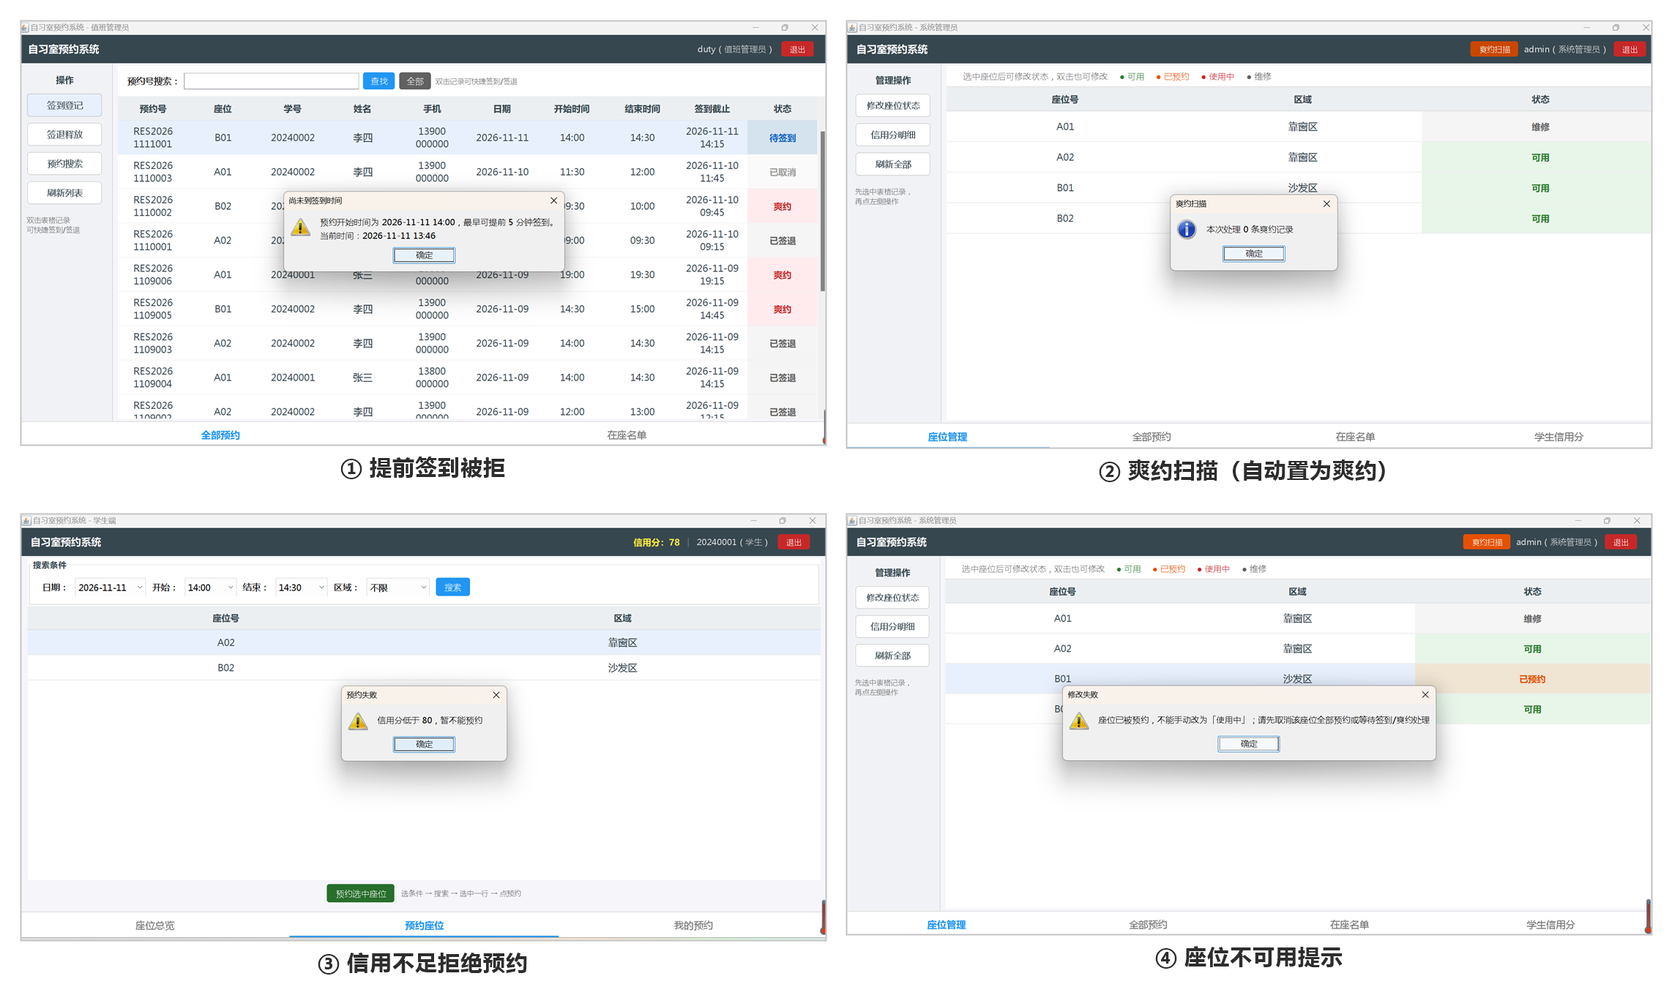
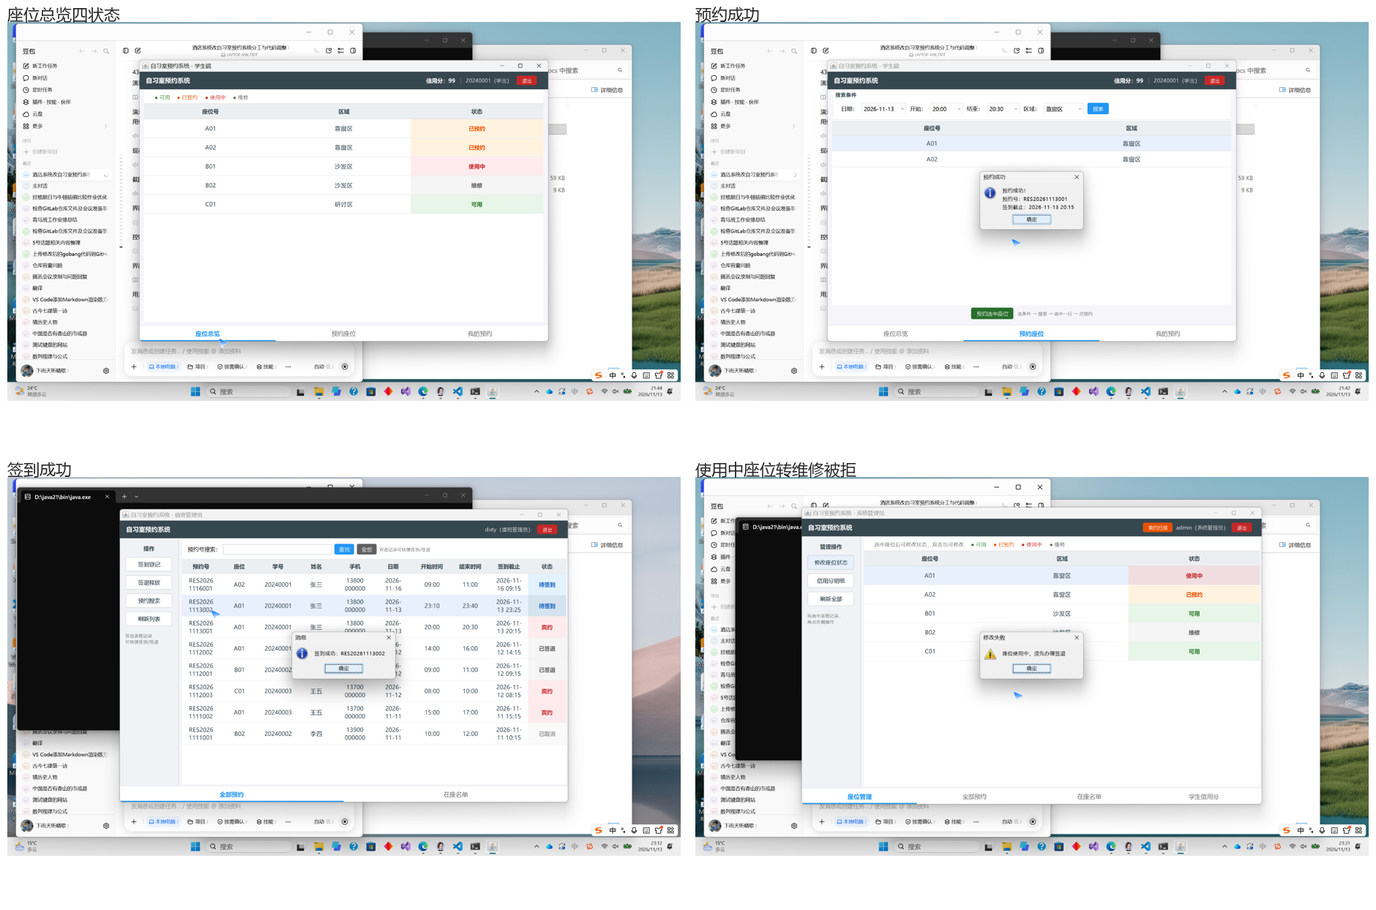
A-16: A-8 联调取证与回写：真机跑通联调清单 9/10 项，清单升 v1.4、看板与工作记录同步

diff --git a/docs/工作记录.md b/docs/工作记录.md
@@ -5,8 +5,8 @@
 > **维护者**：易雨杰（成员A）
 > **组员**：叶梅冰（成员B）
 > **创建时间**：2026-10-28（选题切换后重新建档）
-> **最后修改**：2026-11-13（v3.24）
-> **版本**：v3.24
+> **最后修改**：2026-11-13（v3.25）
+> **版本**：v3.25
 
 ## 一、团队与分工
 
@@ -89,7 +89,7 @@
 | 2026-11-12 | 易雨杰（A） | 实验时间按 Word 反向同步 | 用户改了实验2、实验3、实验5 三份 Word 的「实验时间」，按 Word 现状只读核对后同步 Markdown：实验2 由 2026 年 10 月 30 日改为 11 月 11 日（升 v2.2），实验3 由 11 月 7 日改为 11 月 11 日（升 v1.5），实验5 由 11 月 7 日改为 11 月 25 日（升 v1.5，并把「图内备注框未重画」改为备注框已按契约 v1.3 表述换入 Word 内嵌图）；`对接-A4到后续B.md` 升 v1.3，实验5 Word 的实验时间与座位图备注框描述一并更新；三份 Word 本次只改了实验时间这一行，逐段 diff 确认其余内容未动 | `docs/reports/实验2-系统用例图与用例叙述.md`、`docs/reports/实验3-UML类图.md`、`docs/reports/实验5-状态图.md`、`docs/contract/对接-A4到后续B.md` | `7a6dd4a`、`3664925` |
 | 2026-11-12 | 叶梅冰（B） | B-8 | 完成个人任务与感想文档及交叉审查闭环：修正实验7大报告：L1019 笔误（图 1-13 改图 1-10）及 2 张图名；拆分表1 CIM-2 行，明确在线预约（A）与签退（B）归属；统一信用分文案为“信用分低于 80，暂不能预约”；大报告版本号升为 v1.1。 | `docs/reports/05_个人任务及感想-B.md`、`docs/reports/05_个人任务及感想-B.docx` | `c9317b2` |
 | 2026-11-13 | 叶梅冰（B） | B-8 / B-6 收尾 | 完善交叉审查闭环与截图汇总： 按 A 复核意见更新个人文档附录 A 闭环说明（修正 A-01 引文位置、收敛 A-02 绝对化措辞）；修复 B-6 汇总目录 `docs/assets/汇总/README.md` 的截图索引与 UML_04 出处；重命名汇总目录中带全角括号的截图文件以兼容跨平台路径； 回填工作记录与进度看板状态； 补交 B-8 个人文档（MD + Word），修改个人文档的附录A内容。 | `docs/reports/05_个人任务及感想-B.md`、`.docx`、`docs/assets/汇总/`、`README.md`、`docs/进度看板.md`、`docs/工作记录.md` | `77cb180`、`b148aae`、`3dd3d72` |
-| 2026-11-13 | 易雨杰（A） | A-12～A-14 合并后收尾 | B 的 PR #16（`302bee7`）合并进 `main` 后做 A 侧收尾。① 进度看板按已合并状态重写：当前节点改为 A-8 联调，A-3～A-7 去掉「待 B 评审合并」并标注归属 PR（#10 / #12 / #14 / #17），A-8 改为「待联调（B 界面已合入 main）」，B-6 改为「汇总已完成、演示视频待联调后录制」，同时修掉截图清单 B-8 行反引号位置错误，并把过期的「当前阻塞」三条（契约 v0.7/v0.8、A-4～A-6 待合并）换成联调期真实阻塞。② 实验5 状态清单补转维修前提：AVAILABLE 的退出条件标「手动维护，`AVAILABLE ↔ CLOSED` 允许」，RESERVED 改为「须经 `closeSeatForRepair` 级联撤销该座位的预约后置 CLOSED」，Word 表格对应两格用 `python-docx` 原地改写，改前断言目标文本唯一命中、改后核对内嵌图 blob 未变（`7fc5b8aa57ef` / `4dda54ea97bb`）。③ `对接-A7到A8联调清单` 升 v1.3：测试数 38 → 43，写明两侧代码均已合入 `main`（`302bee7`）可直接联调，并补 B 侧已实现功能清单 | `docs/进度看板.md`、`docs/reports/实验5-状态图.md`、`docs/reports/实验5-状态图.docx`、`docs/contract/对接-A7到A8联调清单.md` | `984bfd7`、`ecb5f0c`、`7611a71` |
+| 2026-11-13 | 易雨杰（A） | A-15 联调与取证 | 在 `main`（`302bee7`）+ JDK 21 上按《对接-A7到A8联调清单》第五节真机走完 A-8 联调：先 `.\mvnw.cmd clean test` 复跑 43 个用例全过（BUILD SUCCESS），再用 `GenerateDemoData` 生成当天数据启动 Swing，按 学生 → 低信用学生 → 值班 → 系统管理员 四种身份逐项验证。结果 10 项过 9 项：三角色登录与错误密码提示、座位四状态与维修不可选、时段查询随区域/时段变化且已约时段查不到、预约成功（RES20261113001，截止 20:15）、信用分不足被拒（20240003 信用分 65）、签到成功（RES20261113002 转「使用中」并进在座名单）、签退成功（RES20261112001 超时扣 1 分，`LATE_CHECKOUT` 流水 log5）、爽约自动扫描（RES20261112003 与 RES20261113001 转「爽约」各扣 5 分，座位释放）、关程序重开数据仍在（信用分 94、A02 仍已预约、B02 仍维修）；唯一缺口是对使用中座位转维修被拒已取图（弹「修改失败：座位使用中，须先办理签退」），签退后再转维修成功这一步因界面自动化被中断未取到。取证图按步骤编号存 `docs/assets/联调取证/`（含少量重复截图待清理），汇总图 `docs/assets/联调_运行界面.png` 用「座位总览 / 预约成功 / 签到成功 / 转维修被拒」四张拼成 2×2；`对接-A7到A8联调清单` 升 v1.4 逐条勾选并补 5.1 结论与 5.2 实测偏差（users.csv 缺 20240003 账号、王五实为 65、当晚 23 点后无可约时段需补种一条当前时段记录、在座名单无结束时间列、汇总状态与时段查询观感差异、预约不校验当天时刻） | `docs/assets/联调取证/*.png`、`docs/assets/联调_运行界面.png`、`docs/contract/对接-A7到A8联调清单.md`、`docs/进度看板.md`、`docs/工作记录.md` | 随本次提交 | B 的 PR #16（`302bee7`）合并进 `main` 后做 A 侧收尾。① 进度看板按已合并状态重写：当前节点改为 A-8 联调，A-3～A-7 去掉「待 B 评审合并」并标注归属 PR（#10 / #12 / #14 / #17），A-8 改为「待联调（B 界面已合入 main）」，B-6 改为「汇总已完成、演示视频待联调后录制」，同时修掉截图清单 B-8 行反引号位置错误，并把过期的「当前阻塞」三条（契约 v0.7/v0.8、A-4～A-6 待合并）换成联调期真实阻塞。② 实验5 状态清单补转维修前提：AVAILABLE 的退出条件标「手动维护，`AVAILABLE ↔ CLOSED` 允许」，RESERVED 改为「须经 `closeSeatForRepair` 级联撤销该座位的预约后置 CLOSED」，Word 表格对应两格用 `python-docx` 原地改写，改前断言目标文本唯一命中、改后核对内嵌图 blob 未变（`7fc5b8aa57ef` / `4dda54ea97bb`）。③ `对接-A7到A8联调清单` 升 v1.3：测试数 38 → 43，写明两侧代码均已合入 `main`（`302bee7`）可直接联调，并补 B 侧已实现功能清单 | `docs/进度看板.md`、`docs/reports/实验5-状态图.md`、`docs/reports/实验5-状态图.docx`、`docs/contract/对接-A7到A8联调清单.md` | `984bfd7`、`ecb5f0c`、`7611a71` |
 
 
 ## 四、待办与阻塞
@@ -166,4 +166,5 @@
 | v3.22 | 2026-11-12 | 易雨杰 | 三份 Word 的实验时间改动反向同步到 Markdown：实验2 → 2026 年 11 月 11 日（v2.2）、实验3 → 2026 年 11 月 11 日（v1.5）、实验5 → 2026 年 11 月 25 日（v1.5）；实验5 md 头部「图内备注框未重画」一并更正为已按契约 v1.3 换入 Word 内嵌图；`对接-A4到后续B.md` 升 v1.3 同步实验时间与备注框描述；三份 Word 的实验时间改动随 `7a6dd4a` 之后的 `3664925` 入库 |
 | v3.23 | 2026-11-13 | 叶梅冰 | 完善 B-8 与 B-6 交付：按 A 复核意见更新个人文档附录 A 闭环说明（修正 A-01 引文行号、收敛 A-02 绝对化措辞）；修复汇总目录 README 的截图索引与 UML_04 出处；重命名带全角括号的截图以兼容跨平台；补交 B-8 个人文档与 Word；修改个人文档的附录A内容，相关修改见提交 `77cb180` ， `b148aae`与`3dd3d72` |
 | v3.24 | 2026-11-13 | 易雨杰 | B 的 PR #16 合并后 A 侧收尾：进度看板按已合并状态重写（A-3～A-7 标所属 PR、A-8 转联调、阻塞与下一步刷新、修截图清单反引号）；实验5 状态清单补转维修前提（AVAILABLE 标手动维护、RESERVED 改为经 `closeSeatForRepair` 级联撤销后置 CLOSED），Word 表格同步且内嵌图不动；`对接-A7到A8联调清单` 升 v1.3（43 个单测、两侧代码同处 `main` `302bee7`）；对应提交 `984bfd7`、`ecb5f0c`、`7611a71` |
+| v3.25 | 2026-11-13 | 易雨杰 | A-8 联调执行并回写：43 个单测复跑通过（BUILD SUCCESS），四种身份真机走完联调清单 10 项中的 9 项（缺「签退后转维修」一图）；取证图按步骤编号进 `docs/assets/联调取证/`，`联调_运行界面.png` 换为真机 2×2 汇总；`对接-A7到A8联调清单` 升 v1.4（勾选结果 + 5.1 结论 + 5.2 六条实测偏差）；进度看板 A-8 转「进行中 9/10」 |
 

diff --git a/docs/contract/对接-A7到A8联调清单.md b/docs/contract/对接-A7到A8联调清单.md
@@ -1,7 +1,7 @@
 # 对接：A-7 到 A-8 联调清单（成员B 专用）
 
 > **用途**：B 写 Swing 界面时照着走，不用猜文案、不用猜该调哪个方法。
-> **版本**：v1.3（2026-11-13）——A 侧与 B 侧代码均已合入 `main`（A 走 PR #12/#14/#17，B 走 PR #13/#16，`main` 现为 `302bee7`），测试数更新为 43，可直接开始 A-8 联调　**作者**：易雨杰（成员A）
+> **版本**：v1.4（2026-11-13）——A 侧与 B 侧代码均已合入 `main`（A 走 PR #12/#14/#17，B 走 PR #13/#16，`main` 现为 `302bee7`），测试数更新为 43；第五节已按 A-8 真机联调结果逐条勾选并补记实测偏差　**作者**：易雨杰（成员A）
 > **依据**：接口契约 v1.2、`ServiceFactory`、四个 Service 实现的实际代码行为。
 
 ## 一、入口与初始化
@@ -77,21 +77,38 @@ java tools\GenerateDemoData.java data
 
 - 启动后界面直接能看到：`A01` 可用、`A02` 已预约、`B01` 使用中、`B02` 维修、`C01` 被预约锁定；预约列表 `BOOKED/CHECKED_IN/CHECKED_OUT/CANCELLED/NO_SHOW` 俱全，外加一条已过期仍 `BOOKED` 的记录。
 - `20240001 / 123456` 登录学生端，`duty / 123456` 值班管理员，`admin / 123456` 系统管理员。
-- `王五（20240003）` 信用分 70，用他预约可演示 `CREDIT_LOW` 拒绝。
+- 王五（20240003）信用分 **65**，用他预约可演示 `CREDIT_LOW` 拒绝（`users.csv` 默认只注册 `20240001`，先补一行 `20240003,123456,STUDENT` 才能登录，见 5.2 第 1 条）。
 - 签到用「今天 +3 天」的记录；签退用昨天的 `CHECKED_IN`（日期被替换成预约日期，传 09:00 之后任意时刻都能过）；爽约扫描用昨天 08:00 仍 `BOOKED` 的那条（截止 08:15 已过）。
 
 ## 五、A-8 联调验收清单
 
-- [ ] 三种角色都能登录，登录后能取到用户名与角色，错误密码提示「用户名或密码错误」。
-- [ ] 座位总览显示四种状态且颜色/图标可区分；维修中座位不可选。
-- [ ] 查询可用座位：换区域、换时段结果随之变化；已被预约的时段查不到该座位。
-- [ ] 预约成功：座位转「已预约」，预约列表新增一条 `BOOKED`，显示签到截止时间。
-- [ ] 信用分 70 的学生预约被拒，提示信用分不足，座位状态不变。
-- [ ] 签到成功：预约转 `CHECKED_IN`、座位转「使用中」，在座记录出现且结束时间为空。
-- [ ] 签退成功：预约转 `CHECKED_OUT`、座位回到「可用」；超时返回 `penalty=1` 并新增一条 `LATE_CHECKOUT` 流水。
-- [ ] 爽约扫描：把某条 `BOOKED` 的预约等到超过截止时间，手动点一次扫描，预约转 `NO_SHOW`、扣 5 分、座位释放。
-- [ ] 对使用中座位点「转维修」被拒，提示须先签退；签退后再转维修成功。
-- [ ] 关闭程序重开，上述所有改动仍在（CSV 已落盘）。
+> 本轮实测：2026-11-13 21:40~23:35，`main`（`302bee7`）+ JDK 21 + 当天生成的演示数据，全部操作走 Swing 界面，取证图按步骤编号存 `docs/assets/联调取证/`（含少量重复截图，未清理），汇总图 `docs/assets/联调_运行界面.png`。
+
+- [x] 三种角色都能登录，登录后能取到用户名与角色，错误密码提示「用户名或密码错误」。（学生 20240001、值班 duty、系统管理员 admin 均可登录；未注册学号登录同样提示该文案）
+- [x] 座位总览显示四种状态且颜色/图标可区分；维修中座位不可选。（A01 可用、A02 已预约、B01 使用中、B02 维修；B02 不出现在可用座位查询结果里）
+- [x] 查询可用座位：换区域、换时段结果随之变化；已被预约的时段查不到该座位。（预约 A01 后同区域同时段复检，只剩 A02；区域下拉换「靠窗区」结果随之收窄）
+- [x] 预约成功：座位转「已预约」，预约列表新增一条 `BOOKED`，显示签到截止时间。（RES20261113001，弹窗给出「签到截止 20:15」，我的预约新增「待签到」行）
+- [x] 信用分不足的学生预约被拒，提示信用分不足，座位状态不变。（20240003 信用分 65，提示「预约失败：信用分低于 80，暂不能预约」，C01 状态未变）
+- [x] 签到成功：预约转 `CHECKED_IN`、座位转「使用中」，在座记录出现且结束时间为空。（RES20261113002 签到后状态转「使用中」，在座名单出现 REC20261113231205506 / 签到时间 23:12 / 超时扣分 0；**在座名单表格只列签到时间，不列结束时间列**，见 5.2 第 4 条）
+- [x] 签退成功：预约转 `CHECKED_OUT`、座位回到「可用」；超时返回 `penalty=1` 并新增一条 `LATE_CHECKOUT` 流水。（RES20261112001 于 23:05 签退，弹「超时扣分：1 分」，B01 回到可用；`credit_score_logs.csv` log5 落盘 `20240002 … -1 LATE_CHECKOUT`）
+- [x] 爽约扫描：把某条 `BOOKED` 的预约等到超过截止时间，手动点一次扫描，预约转 `NO_SHOW`、扣 5 分、座位释放。（界面**没有**手动扫描按钮，扫描由启动补扫 + 每 60 分钟守护线程完成：RES20261112003、RES20261113001 均转「爽约」，log3/log4 各扣 5 分，C01/A01 释放为可用；系统管理员端另有「爽约扫描」按钮可手动触发）
+- [x] 对使用中座位点「转维修」被拒，提示须先签退。（admin 端对 A01（使用中）改状态，弹「修改失败：座位使用中，须先办理签退」）
+- [ ] 签退后再转维修成功。**未取到证据**：本次界面被中断前未走完该步，留作 A-8 收尾补做。
+- [x] 关闭程序重开，上述所有改动仍在（CSV 已落盘）。（重开后学生 20240001 信用分 94、A01 可用、A02 已预约、B01 可用、B02 维修、C01 可用）
+
+### 5.1 联调结论
+
+- 10 项中 9 项通过、1 项（签退后转维修成功）待补做；B 侧界面与 A 侧 Service 衔接无阻塞问题，异常提示文案与第三节约定一致。
+- 联调期间未改任何业务代码，`.\mvnw.cmd clean test` 43 个测试全过（`BUILD SUCCESS`）。
+
+### 5.2 实测偏差与演示脚手架（已记录，不影响功能）
+
+1. `data/users.csv` 默认只有 `admin`/`duty`/`20240001` 三个账号，演示「信用分不足」需先手工补 `20240003,123456,STUDENT`；生成器可考虑一并写入。
+2. 王五实际信用分 65（原清单写 70），已按 65 更正第四节。
+3. 当天 23:00 之后已无「开始时段」可预约，界面提示「今天已没有可预约的时段，请选择之后的日期」；为验证签到链路，手工在 `data/reservations.csv` 补一条当前时段 `BOOKED`（RES20261113002），**属演示脚手架，不是界面自建**。
+4. 在座名单表格列为「记录号/预约号/座位/姓名/手机/签到时间/超时扣分」，没有「结束时间」列，与第 6 条原文表述不符；要补列属界面改动，本轮不做。
+5. 座位总览显示的是汇总状态（A02「已预约」、B01「使用中」），而按时段查询仍可能列出它们——这是 v1.3「`status` 为汇总状态 + 可用性按时段重叠判定」的设计结果，演示时容易被误读为「已预约还能约」。
+6. 预约只校验日期不校验当天时刻，21:42 仍能约到 20:00-20:30，一旦成立即超过签到截止并转爽约；若要在界面上拦住，需在 `reserve` 增加「结束时间须晚于当前时刻」的校验（属契约变更，须走 `CONTRACT-CHANGE`）。
 
 ## 六、接口补充与已知边界
 
@@ -111,3 +128,4 @@ java tools\GenerateDemoData.java data
 - 文档：本清单 + `对接-A6到后续B.md`（业务规则细节、B 的开工步骤、三张表列定义）+ `A5/A6-实现记录.md`（实现取舍）。
 - 合并状态：A 侧全部内容经 PR #12、#14、#17 合入 `main`；B 侧四端界面经 PR #13（B-4/B-5）与 PR #16（B-6/B-7/B-8）合入，`main` 当前为 `302bee7`。两侧代码已同处一个分支，联调直接在 `main` 上跑，不需要再互相拉分支。
 - 联调前置：B 侧已实现登录、座位查询与预约/取消、我的预约（含座位状态列）、签到/签退、预约号搜索、在座名单、座位状态修改、信用分明细、爽约扫描（`AppMain` 启动补扫一次 + 每 60 分钟一次的守护线程）与统一异常提示；A 侧负责的 Service 与持久层无需改动。
+- 联调结果：2026-11-13 在 `main` 上真机跑通 10 项验收中的 9 项，唯一缺口是「签退后转维修成功」未取图；取证见 `docs/assets/联调取证/`，汇总图 `docs/assets/联调_运行界面.png`。

diff --git a/docs/进度看板.md b/docs/进度看板.md
@@ -2,7 +2,7 @@
 
 > **文件作用**：A/B 双人任务的状态总览，配合《工作记录》使用；每完成一项就更新状态与产出，不做过程叙述。
 > **课程**：CST9301 软件工程　｜　**更新**：2026-11-13　｜　**维护**：易雨杰（A）/叶梅冰（B）
->**当前节点**：A 侧 A-1～A-7 全部完成并合入 main（PR #10、#12、#14、#17）；B 侧 B-1～B-8 已随 PR #16（`302bee7`）合入 main，B-6 的 UML 汇总与运行截图已完成，仅剩演示视频待 A-8 联调后录制。下一节点：A-8 联调。
+>**当前节点**：A 侧 A-1～A-7 全部完成并合入 main（PR #10、#12、#14、#17）；B 侧 B-1～B-8 已随 PR #16（`302bee7`）合入 main，B-6 的 UML 汇总与运行截图已完成。A-8 联调已在 `main` 上真机跑一遍（2026-11-13），10 项验收中 9 项通过，仅剩「签退后转维修成功」一图待补；联调结果已回写 `对接-A7到A8联调清单.md` 第五节。
 
 ## 一、A 的任务（易雨杰 / 2024611209）
 
@@ -15,7 +15,7 @@
 | A-5 | 代码 | 实体类 + CSV/TXT 持久层 | 已完成（PR #12） | `src/main/java/com/studyroom/entity`、`dao`、`dao/impl`、`util`、`src/test/java/com/studyroom`、`docs/development/A5-实现记录.md`、`docs/contract/对接-A5到后续A6与B.md` | `A5_测试通过截图.png` |
 | A-6 | 代码 | Service 业务逻辑（reserve/signIn/signOut） | 已完成（PR #12，契约 v1.3 改造随 PR #14） | `src/main/java/com/studyroom/service`（接口 + `impl` + `ServiceFactory`）、`util/DateTimes`、`src/test/java/com/studyroom/service`、`docs/development/A6-实现记录.md`、`docs/contract/对接-A6到后续B.md` | `A6_测试通过截图.png` |
 | A-7 | 实验8 | Git 提交记录、分支图、PR 截图 + 心得 | 已完成（PR #12） | `docs/reports/实验8-版本控制.md`、`docs/reports/实验8-版本控制.docx` | `A7_git_graph.png`、`A7_pr_screenshot.png` |
-| A-8 | 实验7 综合 | 主干合并、Review B 代码、联调 | 待联调（B 的四端界面已合入 main，PR #13、#16；联调清单见 `docs/contract/对接-A7到A8联调清单.md`） | `main` 分支 | 待联调 |
+| A-8 | 实验7 综合 | 主干合并、Review B 代码、联调 | 进行中（联调 9/10 项通过，缺「签退后转维修」一图；见 `docs/contract/对接-A7到A8联调清单.md` 第五节 5.1/5.2） | `main` 分支、`docs/assets/联调_运行界面.png`、`docs/assets/联调取证/` | `联调_运行界面.png` |
 
 > **关于「代码」类任务的报告**：指导书（`CST9301-软件工程-实验指导书2024.doc`）共 8 个实验——1 目标与功能、2 用例图、3 类图、4 活动图、5 状态图、6 时序图、7 MDA 建模实例、8 版本控制（本组改用 Git），**全部为建模与版本控制，没有代码实现类实验**。因此 A-5/A-6 不产出实验报告，书面交付物为实现记录（`docs/development/A5/A6-实现记录.md`）与对接文档，代码依据实验7 的 MDA 思路按 PIM 图施工即可。
 
@@ -42,7 +42,7 @@
 | A-4 | 已完成 | 座位、预约记录各一张 + 界面 | `docs/assets/实验5_*.jpg`、`实验5_*-界面.png` |
 | A-5/A-6 | 代码跑通、单测通过 | IDEA 结构 + 绿色测试条 + 控制台 | `A5_测试通过截图.png`、`A6_测试通过截图.png` |
 | A-7 | 已完成 | 终端 `git log --graph` 分支拓扑 + PR #12 页面 | `A7_git_graph.png`、`A7_pr_screenshot.png` |
-| A-8 | 联调通过后 | main 分支跑通预约+签到签退的界面 | `联调_运行界面.png` |
+| A-8 | 联调已跑（2026-11-13，9/10 项通过） | main 分支跑通预约+签到签退的界面 | `联调_运行界面.png`（2×2 汇总）、`docs/assets/联调取证/`（27 张分步取证） |
 | B-1 | 已完成 | 导出 JPG + 界面（含 include/extend） | `实验2_系统用例图.jpg` |
 | B-2 | 已完成 | 导出 JPG + 界面（含泳道与异常分支） | `docs/assets/实验4_签退活动图.jpg` |
 | B-3 | 已完成 | 导出 JPG + 界面（边界/控制/实体） | `docs/assets/实验6_在线预约时序图.jpg` |
@@ -57,11 +57,11 @@
 
 ## 四、当前阻塞
 
-1. A-8 联调待启动：B 侧四端界面已合入 `main`（B-4/B-5 走 PR #13，B-6/B-7/B-8 走 PR #16，main 现为 `302bee7`），A 侧需在 `main` 上按 `docs/contract/对接-A7到A8联调清单.md` 跑一遍「预约 → 签到 → 签退」，并截 `docs/assets/联调_运行界面.png`。联调期间不改业务代码，发现问题按 `CONTRACT-CHANGE` 走。
-2. B-6 演示视频待联调通过后录制：3～5 分钟，覆盖登录、座位查询与预约、我的预约、签到、签退、爽约扫描、改状态被拒等场景。
+1. A-8 收尾：联调 10 项已过 9 项，只剩「签退后对座位转维修成功」一图未取；补图后把 A-8 状态改为已完成，并补齐 `A7_pr_screenshot.png` 里的 PR #16/#18 合并记录。联调期间不改业务代码，发现问题按 `CONTRACT-CHANGE` 走。
+2. B-6 演示视频待 A-8 收尾后录制：3～5 分钟，覆盖登录、座位查询与预约、我的预约、签到、签退、爽约扫描、改状态被拒等场景。
 3. 无代码阻塞：`.\mvnw.cmd clean test` 43 个单元测试全过，接口契约 v1.3 已冻结。
 
 ## 五、下一步
 
-1. A 侧：做 A-8 联调，用 `main` 跑通全流程并出联调图，联调结论回写本看板与《工作记录》。
-2. B 侧：联调通过后补录 B-6 演示视频。
+1. A 侧：补齐 A-8 的「签退后转维修」取证，之后出联调结论并更新本节与《工作记录》。
+2. B 侧：A-8 收尾后补录 B-6 演示视频。
